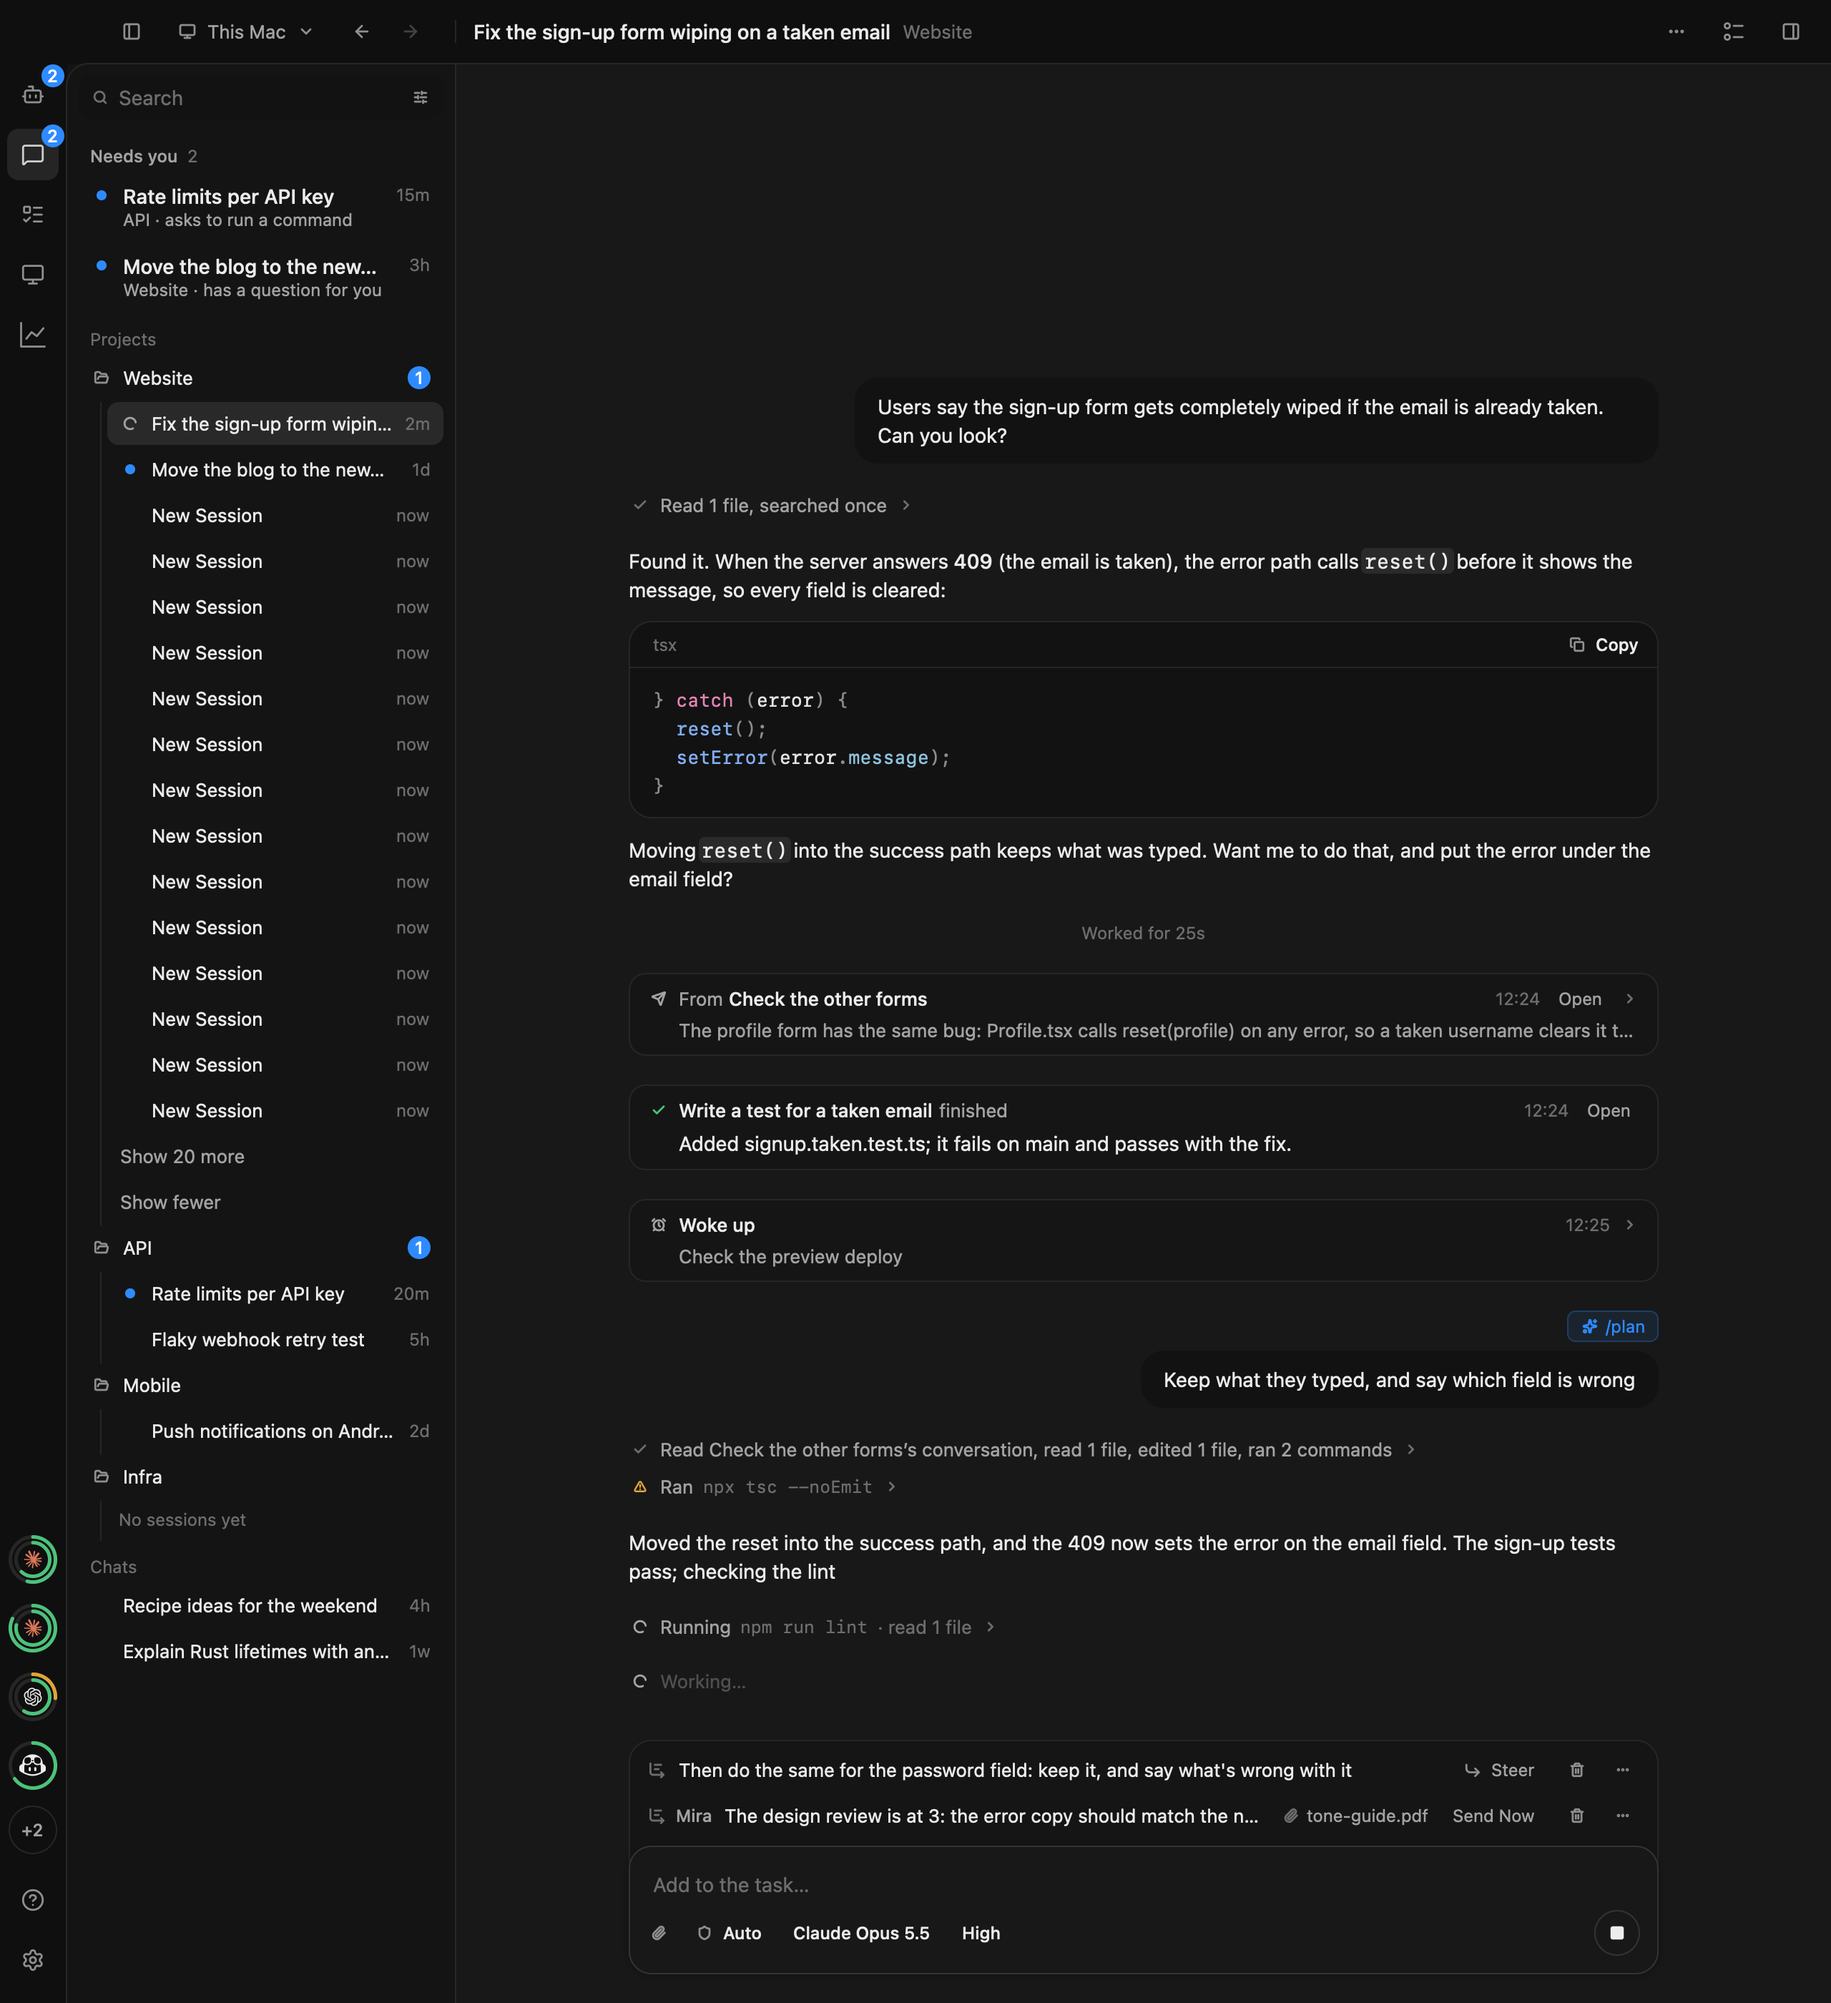
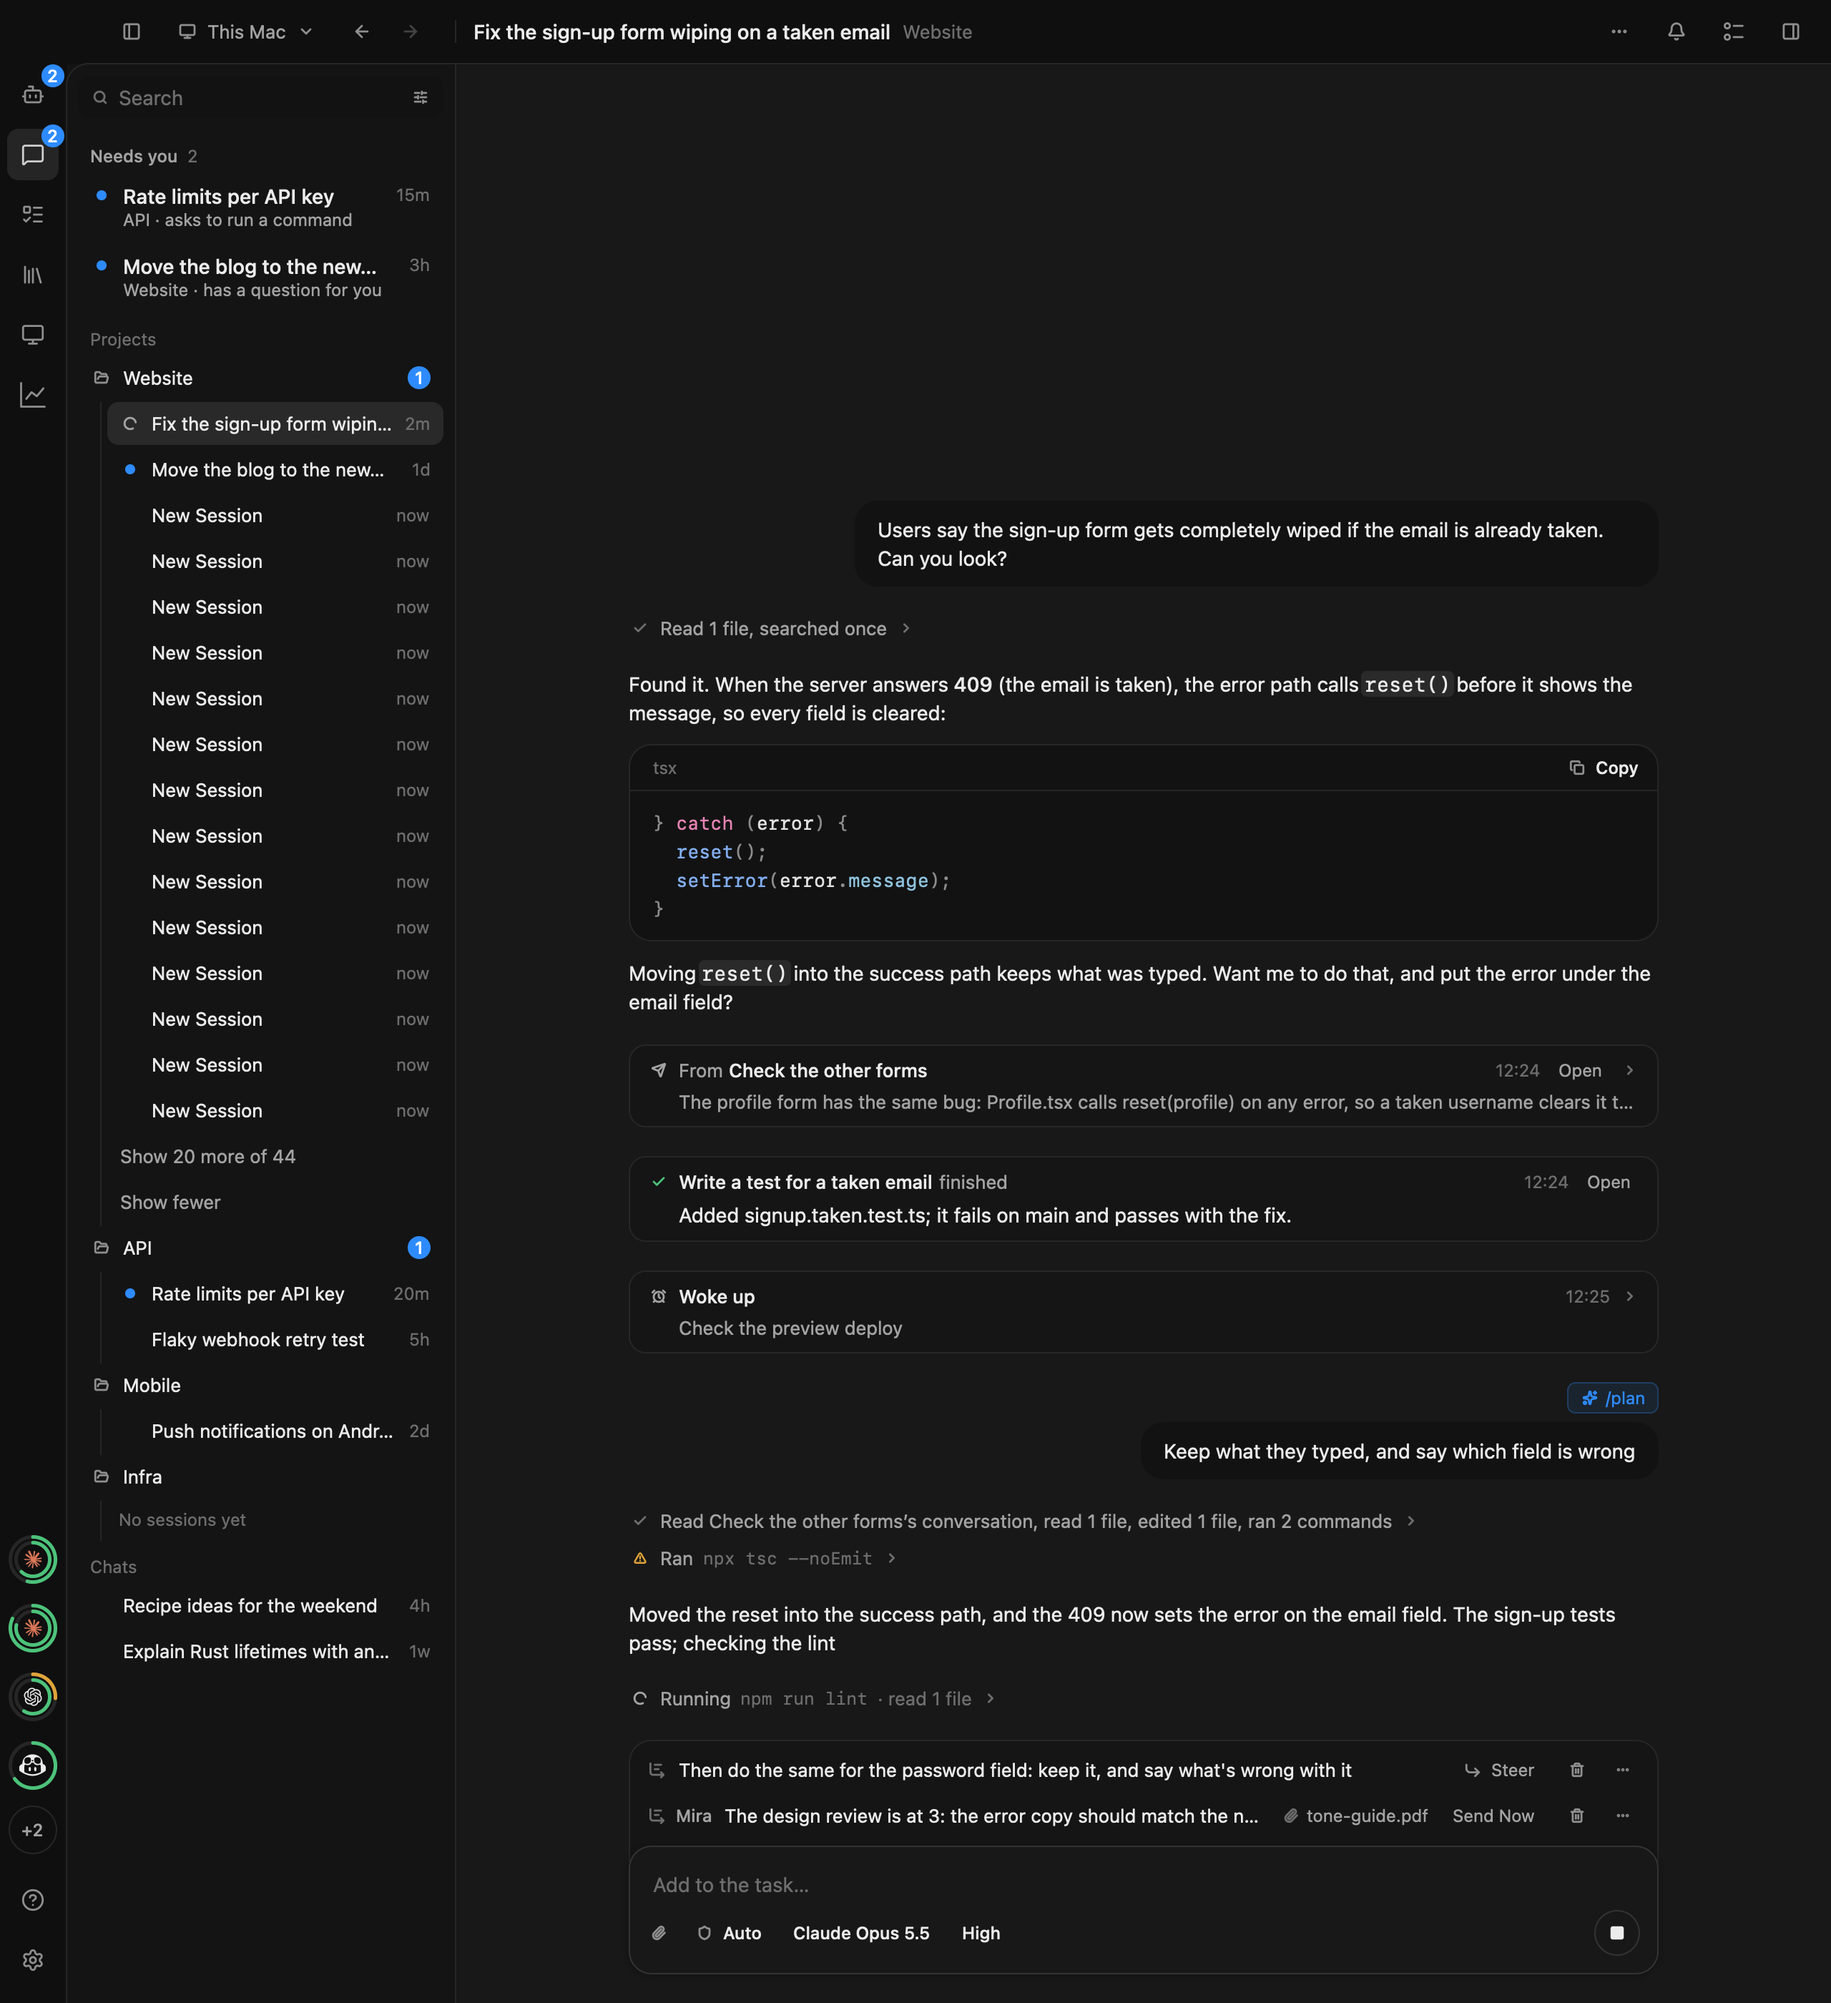
A folded list says how many it holds: Show 10 more of 44, Show all 44

diff --git a/gpui/kuvo/src/sidebar.rs b/gpui/kuvo/src/sidebar.rs
@@ -422,6 +422,16 @@ fn sessions(workspace: &mut Workspace, _window: &mut Window, cx: &mut Context<Wo
         .collect()
 }
 
+/// What "Show more" under a project says: the whole list where its next page is the rest of it
+/// ("Show all 16"), otherwise the next page and how many there are in all ("Show 10 more of 44").
+fn more_words(shown: u64, count: u64, total: Option<u64>) -> String {
+    match total {
+        Some(total) if shown + count >= total => format!("Show all {total}"),
+        Some(total) => format!("Show {count} more of {total}"),
+        None => format!("Show {count} more"),
+    }
+}
+
 fn line_row(workspace: &mut Workspace, line: &Line, cursor: bool, cx: &mut Context<Workspace>) -> AnyElement {
     let c = cx.theme().colors.clone();
     let row: AnyElement = match line {
@@ -530,15 +540,17 @@ fn line_row(workspace: &mut Workspace, line: &Line, cursor: bool, cx: &mut Conte
         Line::Session { id, section, .. } => session_row(workspace, id, section, cursor, cx),
         Line::More(directory) if workspace.project_list(directory).is_some() => {
             let count = workspace.more_of(directory).map_or(0, |more| more.count);
+            let shown = workspace.project_list(directory).map_or(0, |list| list.len() as u64);
             let (asking, _) = workspace.paging(directory);
-            let label = if asking { "Showing more…".to_owned() } else { format!("Show {count} more") };
+            let label = if asking { "Showing more…".to_owned() } else { more_words(shown, count, workspace.total_of(directory)) };
             let more = directory.clone();
             let selector = format!("more-{directory}");
+            let said = format!("more-words-{label}");
             let row = NavRow::new(SharedString::from(format!("more-{directory}")), label)
                 .muted(true)
                 .cursor(cursor)
                 .on_click(cx.listener(move |this, _, _, cx| this.show_more(&more, cx)));
-            div().debug_selector(move || selector).child(row).into_any_element()
+            div().debug_selector(move || said).child(div().debug_selector(move || selector).child(row)).into_any_element()
         }
         Line::Fewer(directory) => {
             let fewer = directory.clone();
@@ -560,7 +572,7 @@ fn line_row(workspace: &mut Workspace, line: &Line, cursor: bool, cx: &mut Conte
         Line::More(directory) => {
             let sidebar = workspace.listing().sidebar();
             let count = sidebar.projects.iter().find(|group| &group.directory == directory).map_or(0, |group| group.sessions.len());
-            let label = if workspace.shows_all(directory) { "Show fewer".to_owned() } else { format!("Show {} more", count.saturating_sub(SHOWN)) };
+            let label = if workspace.shows_all(directory) { "Show fewer".to_owned() } else { format!("Show all {count}") };
             let toggle = directory.clone();
             NavRow::new(SharedString::from(format!("more-{directory}")), label)
                 .muted(true)

diff --git a/gpui/kuvo/tests/session_pages.rs b/gpui/kuvo/tests/session_pages.rs
@@ -85,6 +85,7 @@ fn a_long_list_shows_those_at_work_first_and_more_in_growing_pages(cx: &mut Test
     assert_eq!(first.last().map(String::as_str), Some("more"));
     let label = |workspace: &Entity<Workspace>, cx: &mut VisualTestContext| workspace.read_with(cx, |workspace, _| workspace.more_of(&website()).map(|more| more.count));
     assert_eq!(label(&workspace, cx), Some(10));
+    assert!(bounds(cx, "more-words-Show 10 more of 44").is_some(), "it says how many there are in all");
 
     // Show more: 10, then 20, then the 8 left; never the whole list at once.
     click(cx, &format!("more-{}", website()));
@@ -96,6 +97,7 @@ fn a_long_list_shows_those_at_work_first_and_more_in_growing_pages(cx: &mut Test
     click(cx, &format!("more-{}", website()));
     assert_eq!(sessions(&website_rows(&workspace, cx)), 36);
     assert_eq!(label(&workspace, cx), Some(8));
+    assert!(bounds(cx, "more-words-Show all 44").is_some(), "the last page shows them all");
     click(cx, &format!("more-{}", website()));
     let all = website_rows(&workspace, cx);
     assert_eq!(sessions(&all), 44);

diff --git a/gpui/kuvo/src/workspace.rs b/gpui/kuvo/src/workspace.rs
@@ -1720,6 +1720,14 @@ impl Workspace {
         }
     }
 
+    /// How many sessions a project's list has in all, as its box says (none from a box before it said).
+    pub fn total_of(&self, project: &str) -> Option<u64> {
+        match self.pages.get(project).and_then(|page| page.page.as_ref()) {
+            Some(page) => Some(page.total).filter(|total| *total > 0),
+            None => self.listing.projects().get(project).and_then(|listed| listed.total),
+        }
+    }
+
     /// Whether "Show more" opened a project's list further than it shows first.
     pub fn shows_more(&self, project: &str) -> bool {
         self.pages.contains_key(project)

diff --git a/gpui/kuvo/src/work_bars.rs b/gpui/kuvo/src/work_bars.rs
@@ -2700,7 +2700,7 @@ impl ActivityCard {
             let toggle_label = if self.all_active {
                 "Show fewer".to_owned()
             } else {
-                format!("+{hidden_active} more at work")
+                format!("Show all {}", sessions.len())
             };
             let hover = c.hover;
             body.push(
